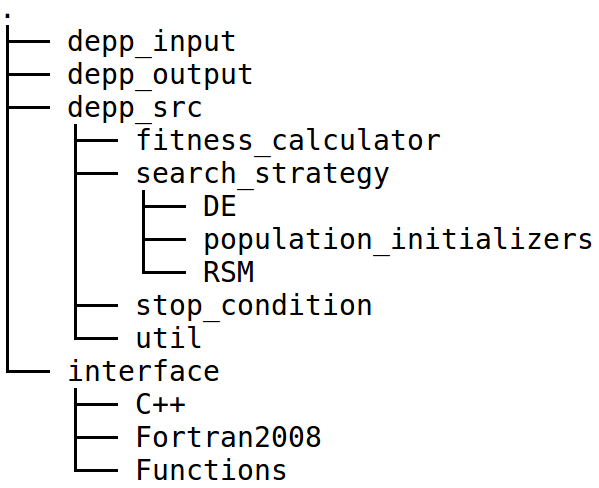
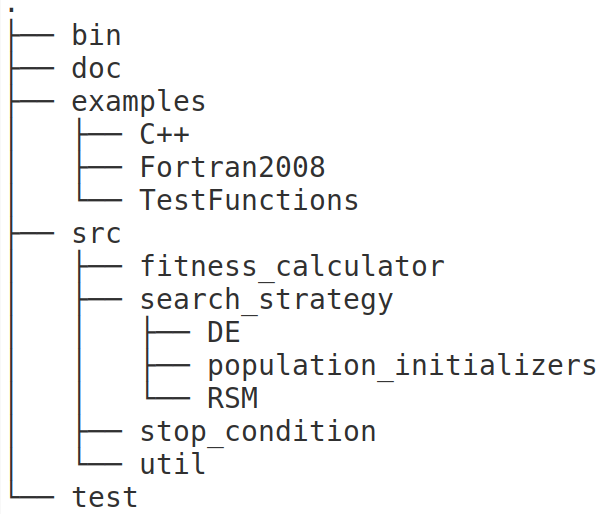
Updated JOSS paper.

Changed region(s): [[0.0, 0.0, 0.9917, 1.0], [0.6611, 0.6762, 0.9917, 0.7377]]

diff --git a/doc/JOSSPaper/paper.md b/doc/JOSSPaper/paper.md
@@ -26,13 +26,13 @@ bibliography: paper.bib
 
 # Summary
 
-Optimization is a mathematical problem often found in science and engineering. Currently, however, there is no general method to face this problem. Solutions are generally addressed by two approaches, both iterative: (a) quasi-Newton methods [@Griva:2009] and (b) heuristic methods [@Coley:1999; @Feoktistov:2006]. Each one has advantages depending on the problem to be optimized. Quasi-Newton methods, in general, converge faster then heuristic methods, provided the function to be optimized (the objective function) is smooth. Heuristic methods, on the other hand, are more appropriate to deal with noisy objective functions, to handle failures in the calculation of the objective function and are less susceptible to be retained in local optimum than quasi-Newton methods. 
+Optimization is a mathematical problem often found in science and engineering. Currently, however, there is no general method to face this problem. Solutions are generally addressed by two approaches, both iterative: (a) quasi-Newton methods [@Griva:2009] and (b) heuristic methods [@Coley:1999; @Feoktistov:2006]. Each one has advantages depending on the problem to be optimized. Quasi-Newton methods, in general, converge faster then heuristic methods provided the function to be optimized (the objective function) is smooth. Heuristic methods, on the other hand, are more appropriate to deal with noisy objective functions, to handle failures in the calculation of the objective function and are less susceptible to be retained in local optimum than quasi-Newton methods. 
 
 Among the heuristic methods, Differential Evolution (DE)[@Storn:1997; @Price:2005] had emerged as a simple and efficient method for finding the global maximum. This method is based on the principles of biological evolution.
 
 To combine the robustness of heuristic methods with the high convergence speed of quasi-Newton methods, Loris Vincenzi and Marco Savoia [@Vincenzi:2015] proposed coupling Differential Evolution heuristic with Response Surfaces [@Khuri:1996; @Myers:2009]. Fitting Response Surfaces during optimization and finding their optima mimics quasi-Newton methods. The authors showed that this approach reduced significantly the effort to solve some problems within a given tolerance (in general, more than 50% compared to the original heuristic method). 
 
-Based on the paper of Loris Vincenzi and Marco Savoia, but applying a different algorithm, a software called ``DEPP``, an acronym for Differential Evolution Parallel Program, was elaborated. ``DEPP`` source code is written in Fortran 2008 standard[@Brainerd:2015], it is based on the object-oriented paradigm and it includes MPI paralellization[@Tennessee:2009]. The main algorithm was elaborated to simplify the development and extension of the code, relying on abstract classes and polymorphism. Following this idea, design patterns [@Freeman:2004] were also applied. Object instances are generated through the Factory Design Pattern and Adapter Design Pattern was applied to encapsulate MPI commands, for instance. In this way, users may implement new optimization methods without changing the main algorithm. 
+Based on the paper of Loris Vincenzi and Marco Savoia, but applying a different algorithm, a software called ``DEPP``, an acronym for Differential Evolution Parallel Program, was elaborated. ``DEPP`` source code is written following Fortran 2008 standard[@Brainerd:2015], it is based on the object-oriented paradigm and it includes MPI paralellization[@Tennessee:2009]. The main algorithm was elaborated to simplify the development and extension of the code, relying on abstract classes and polymorphism. Following this idea, design patterns [@Freeman:2004] were also applied. Object instances are generated through the Factory Design Pattern and Adapter Design Pattern was applied to encapsulate MPI commands, for instance. In this way, users may implement new optimization methods without changing the main algorithm. 
 
 Due to its supporting theory, ``DEPP`` is well suited to address optimization problems of multimodal, noisy, poor-precision-calculated and failure-susceptible objective functions, taking advantage of acceleration provided by parallelization and hybridization models, like Differential Evolution-Response Surface coupling. 
 
@@ -45,25 +45,38 @@ Software description {#sec:description}
 Software Architecture {#sec:arch}
 ---------------------
 
-DEPP is written in FORTRAN 2008 standard language[@Brainerd:2015] with the Message Passing Interface (MPI) directives[@Tennessee:2009] and takes
-advantage of the Object-Oriented Paradigm.
-
-The folder structure of DEPP is shown in Figure 1. The directory *depp\_input* contains the input (text) files that define
-the control parameters of the optimization. Results of DEPP are saved into *depp\_output* directory. The source code is within *depp\_src* directory. This directory also contains the Bash[@Ramey:2016] script *compile.sh*, which compiles DEPP source code and generates the executable *depp.x* in the root of the file structure.  The interface between DEPP and the external program (EP), which calculates the objective function, is defined in the *interface* directory. Finally, the script *run.sh* runs DEPP using MPI.
-
-![Folder structure of DEPP.](folder_structure.png){width="50.00000%"}
-
+DEPP source code was written following the FORTRAN 2008 standard language[@Brainerd:2015], it uses the Message Passing Interface (MPI) directives[@Tennessee:2009] for parallel processing and takes advantage of the Object-Oriented Paradigm.
 
 Thanks to Object-Oriented Programming, the source code was designed to simplify the implementation of new methods. The algorithm works on
 abstract classes separated, basically, as (i) population initializers, (ii) search strategies, (iii) fitness calculation and (iv) stop conditions. The concrete classes are generated using the Factory Design Pattern[@Freeman:2004]. All MPI commands are encapsulated into proper classes, following the logic of the Adapter Design Pattern. In this way, users interested in the implementation of new methods will not concern about MPI details.
 
-Interfacing DEPP with an external program is exemplified in *interface* directory. This folder contains three examples based on C++ and FORTRAN 2008 languages, although many other programming languages may be used for interfacing.
+DEPP treats the fitness function as a black-box, that must be provided by an external program (EP). This approach increases the range of the application of DEPP, since in many cases the fitness function can not be written as a DEPP subroutine.
 
-The basic algorithm of DEPP is illustrated in Figure 2. DEPP reads the input data from *depp\_input* directory (optionally, it may start from some backup). The stop condition is analyzed. In the first iteration, the stop condition is generally not satisfied (it may not be true when starting from a
-backup). When the stop condition is satisfied, the iterative procedure is finished and the output data is saved in the *depp\_output* directory. Otherwise, a trial population is generated. DEPP sends the information to a set of threads (T1,$\cdots$, TN) using MPI. Then, each of these threads runs a copy of the external program (EP) for a given individual of the population. After that, DEPP receives the calculated objective function and compares their fitness with the fitness of the current
-population. Only the best individuals are held. A backup is optionally generated and the iterative cycle is restarted. During the calculation of the objective function, some failures may occur. DEPP handles failures using an error code returned by the external program. If the error code is 0, the calculations were performed correctly; if 1 is returned, then a failure occurred and the trial individual is discarded; if 2 is returned, then a failure occurred, the trial individual is discarded and a new one is generated. All the failures are registered for the posterior user’s analysis.
+Communication between DEPP and the external program is performed by disk files.  DEPP calls the EP by command-line, passing to it the name of a file as an argument. This file contains the name of another file (where the external program must save fitness), the dimension of the trial solution vector **X** and the components X1, X2, ... of **X**, e.g.,
+```
+<path/filename> = arqfit: name of the file to save fitness
+        <value> =     nu: number of unknowns (dimension of the trial vector X)
+  <value of X1>
+        .
+        .
+        .
+ <value of Xnu>
+```
+On the other hand, the external program must calculate, and save the fitness in the file indicated by DEPP with an exit status code (to be further explained). This file reads as
+```
+<value> = Fitness
+<value> = Exit status code
+```
+
+The basic algorithm of DEPP is illustrated in Figure 1. DEPP reads the input data from a configuration file, whose name is passed to it by a command-line argument. The stop condition is analyzed. In the first iteration, the stop condition is generally not satisfied (it may not be true when starting from a
+backup). When the stop condition is satisfied, the iterative procedure is finished and the output data is saved in the *depp\_output* directory. Otherwise, a trial population is generated. DEPP sends the information to a set of threads (T1,$\cdots$, TN) using MPI. Then, each of these threads runs a copy of the external program (EP) for a given individual of the population. After that, DEPP receives the calculated objective function and compares their fitness with the fitness of the current population. Only the best individuals are held. A backup is optionally generated and the iterative cycle is restarted. During the calculation of the objective function, some failures may occur. DEPP handles failures using an exit status code returned by the external program. If the exit code is 0, the calculations were performed correctly; if 1 is returned, then a failure occurred and the trial individual is discarded; if 2 is returned, then a failure occurred, the trial individual is discarded and a new one is generated. All the failures are registered for the posterior user’s analysis.
 
 ![DEPP's basic algorithm.](algorithm1.png){width="55.00000%"}
+
+The folder structure of DEPP is shown in Figure 2. The directory *src* contains the DEPP source code. After compiled, the executable *depp.x* is moved to *bin* directory. *test* folder contains Bash scripts[@Ramey:2016] to perform code verification and installation check up. Examples are provided within *examples* directory.
+
+![Folder structure of DEPP.](folder_structure.png){width="50.00000%"}
+
 
 Supporting theory {#sec:theory}
 -----------------
@@ -72,7 +85,7 @@ The following sections describe the optimization theory behind the current imple
 
 ### Differential Evolution {#sec:DE}
 
-Differential Evolution algorithm is based on the principles of biological evolution. Basically, it works as follows. Given a population (set of discrete points in the domain of search), new individuals (trial points) are generated by “mutation” and “crossing over”. Here, “mutation” means a rule for creating new trial individuals while “crossing over” means a rule of exchanging information between a trial individual and an individual of the population. The fitness (objective function) of the new individuals is compared to the fitness of the parent individuals and the worse individuals are eliminated. The procedure is repeated for several generations (iterations) until a criterion of convergence is satisfied within a given tolerance.
+Differential Evolution algorithm is based on the principles of biological evolution. Basically, it works as follows. Given a population (set of discrete points in the domain of search), new individuals (trial points) are generated by “mutation” and “crossing over”. Here, “mutation” means a rule for creating new trial individuals while “crossing over” means a rule of exchanging information between a trial individual and an individual of the population. The fitness (objective function) of the new individuals is compared to the fitness of the2parent individuals and the worse individuals are eliminated. The procedure is repeated for several generations (iterations) until a criterion of convergence is satisfied within a given tolerance.
 
 Current version of DEPP focus on a particular kind of maximization problem, often found in practical applications, i.e.,
 $$\begin{aligned}
